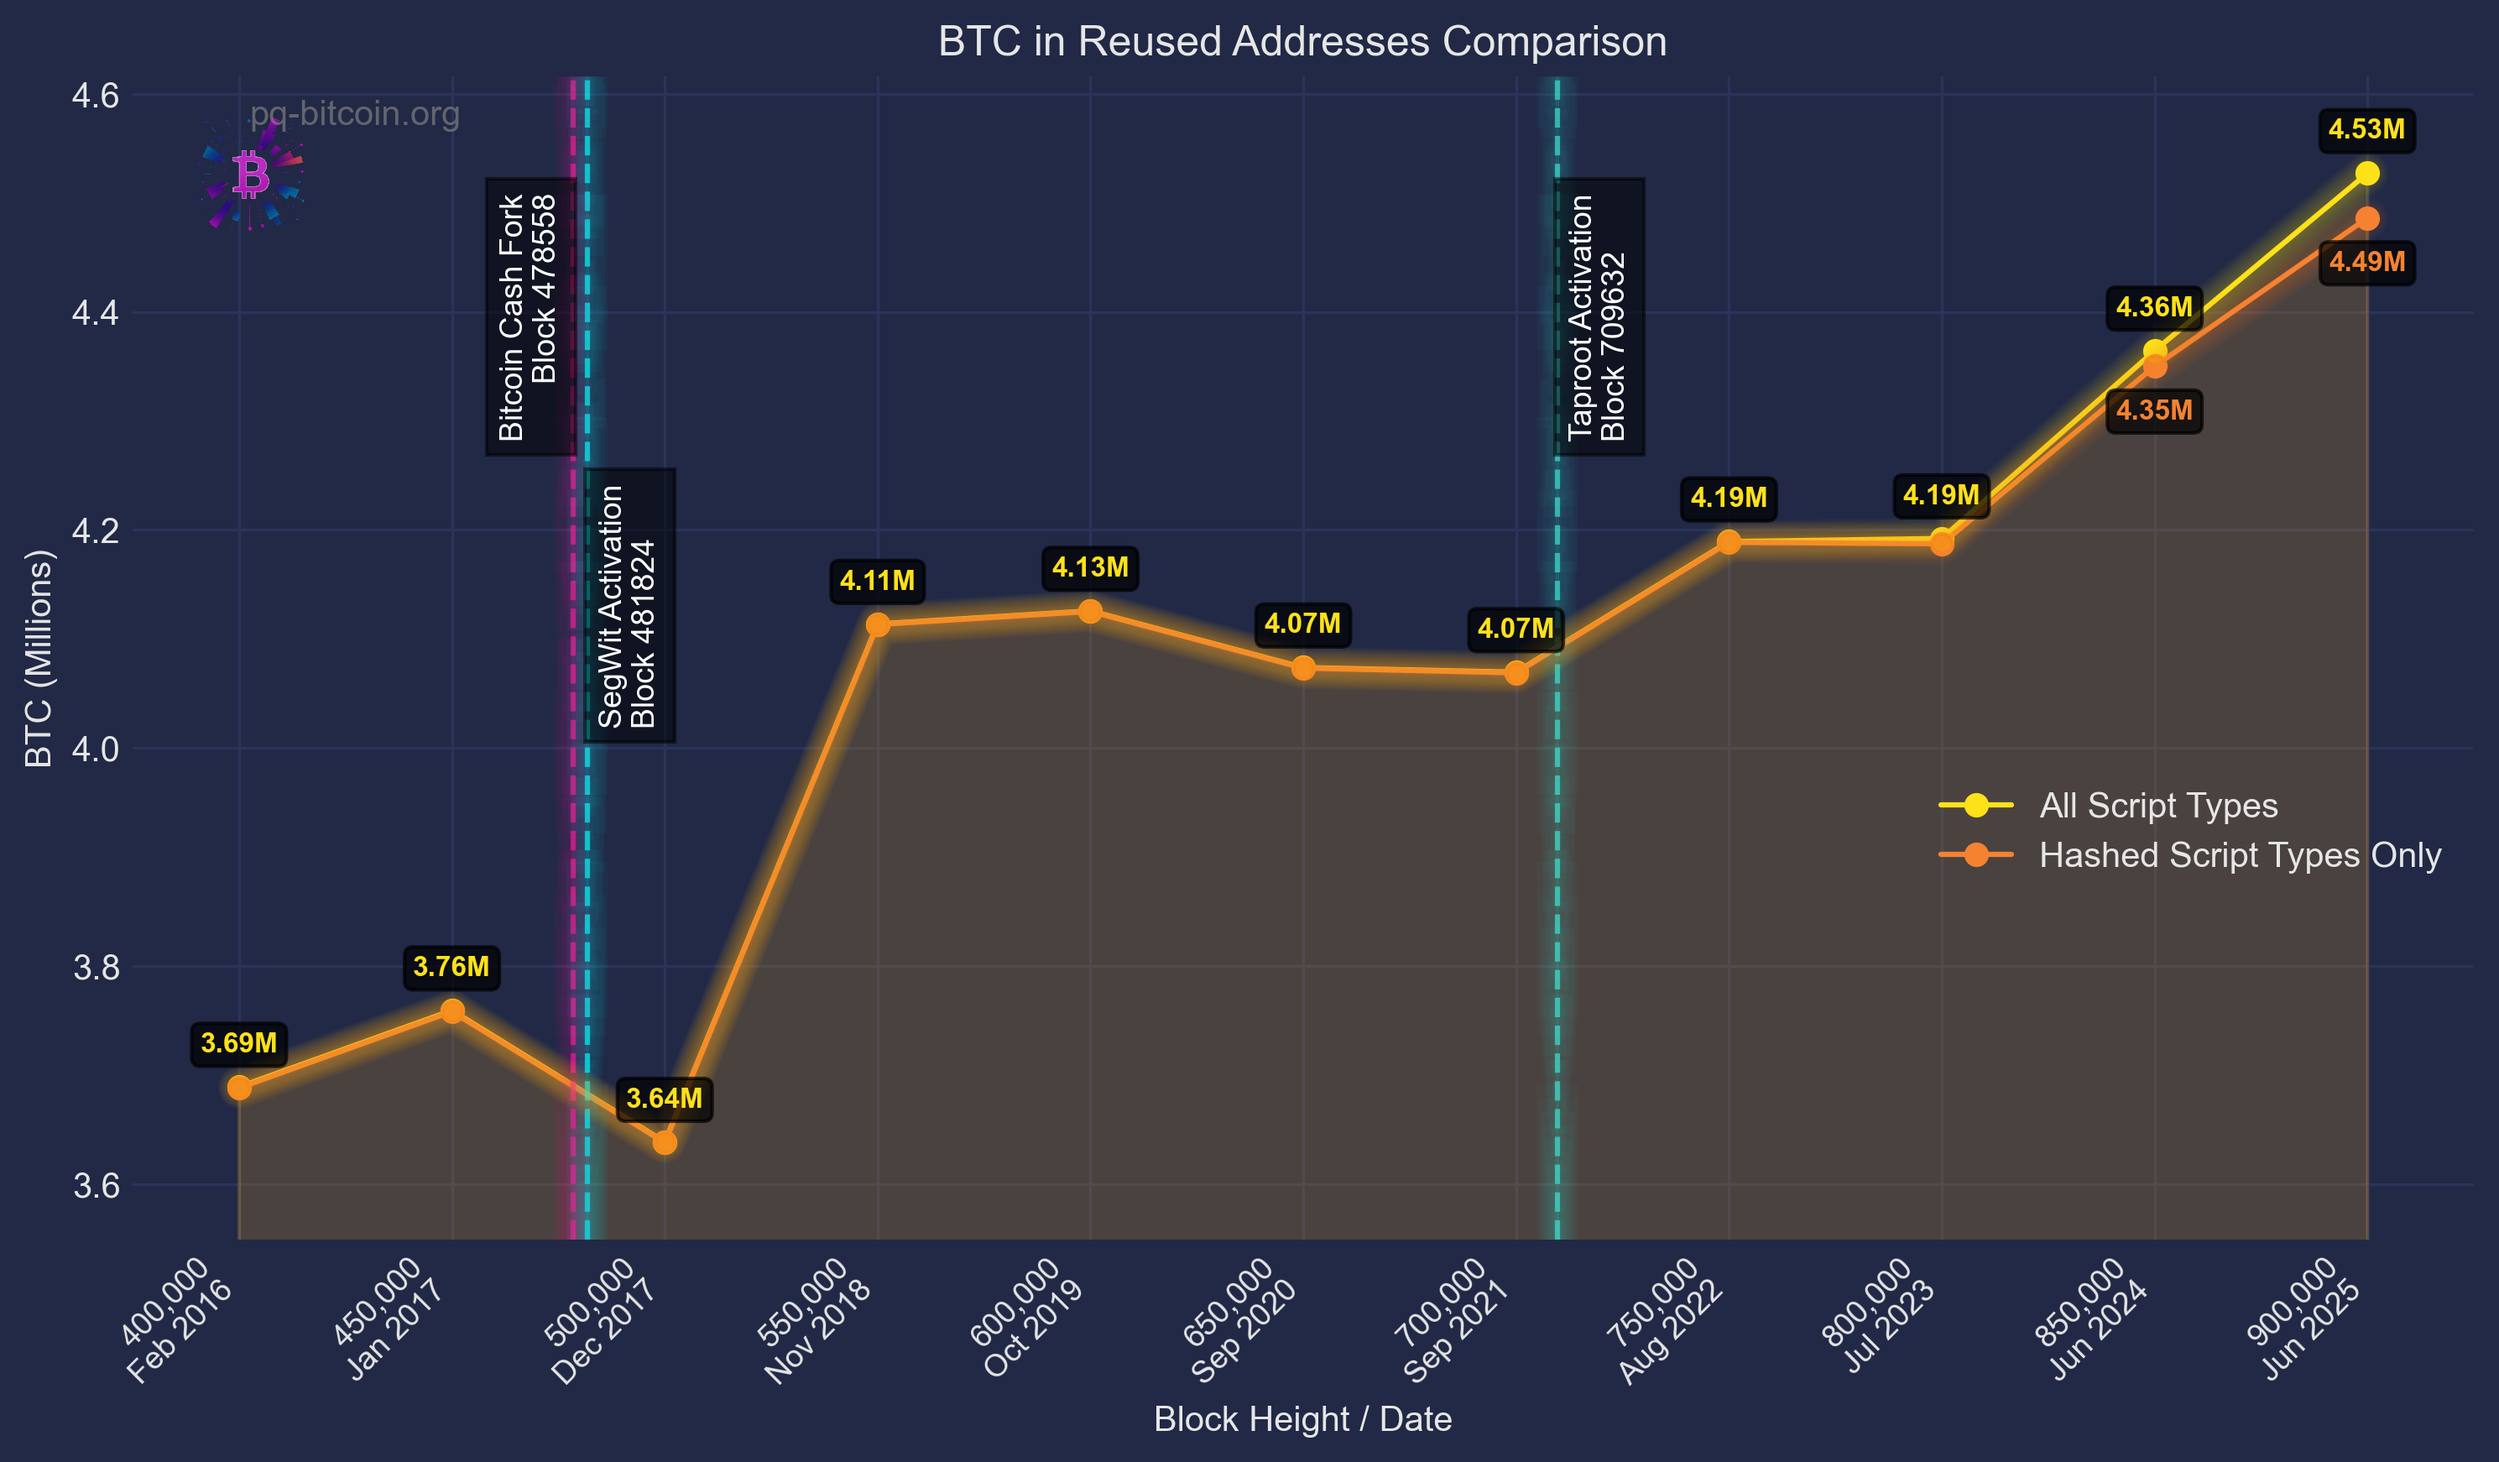
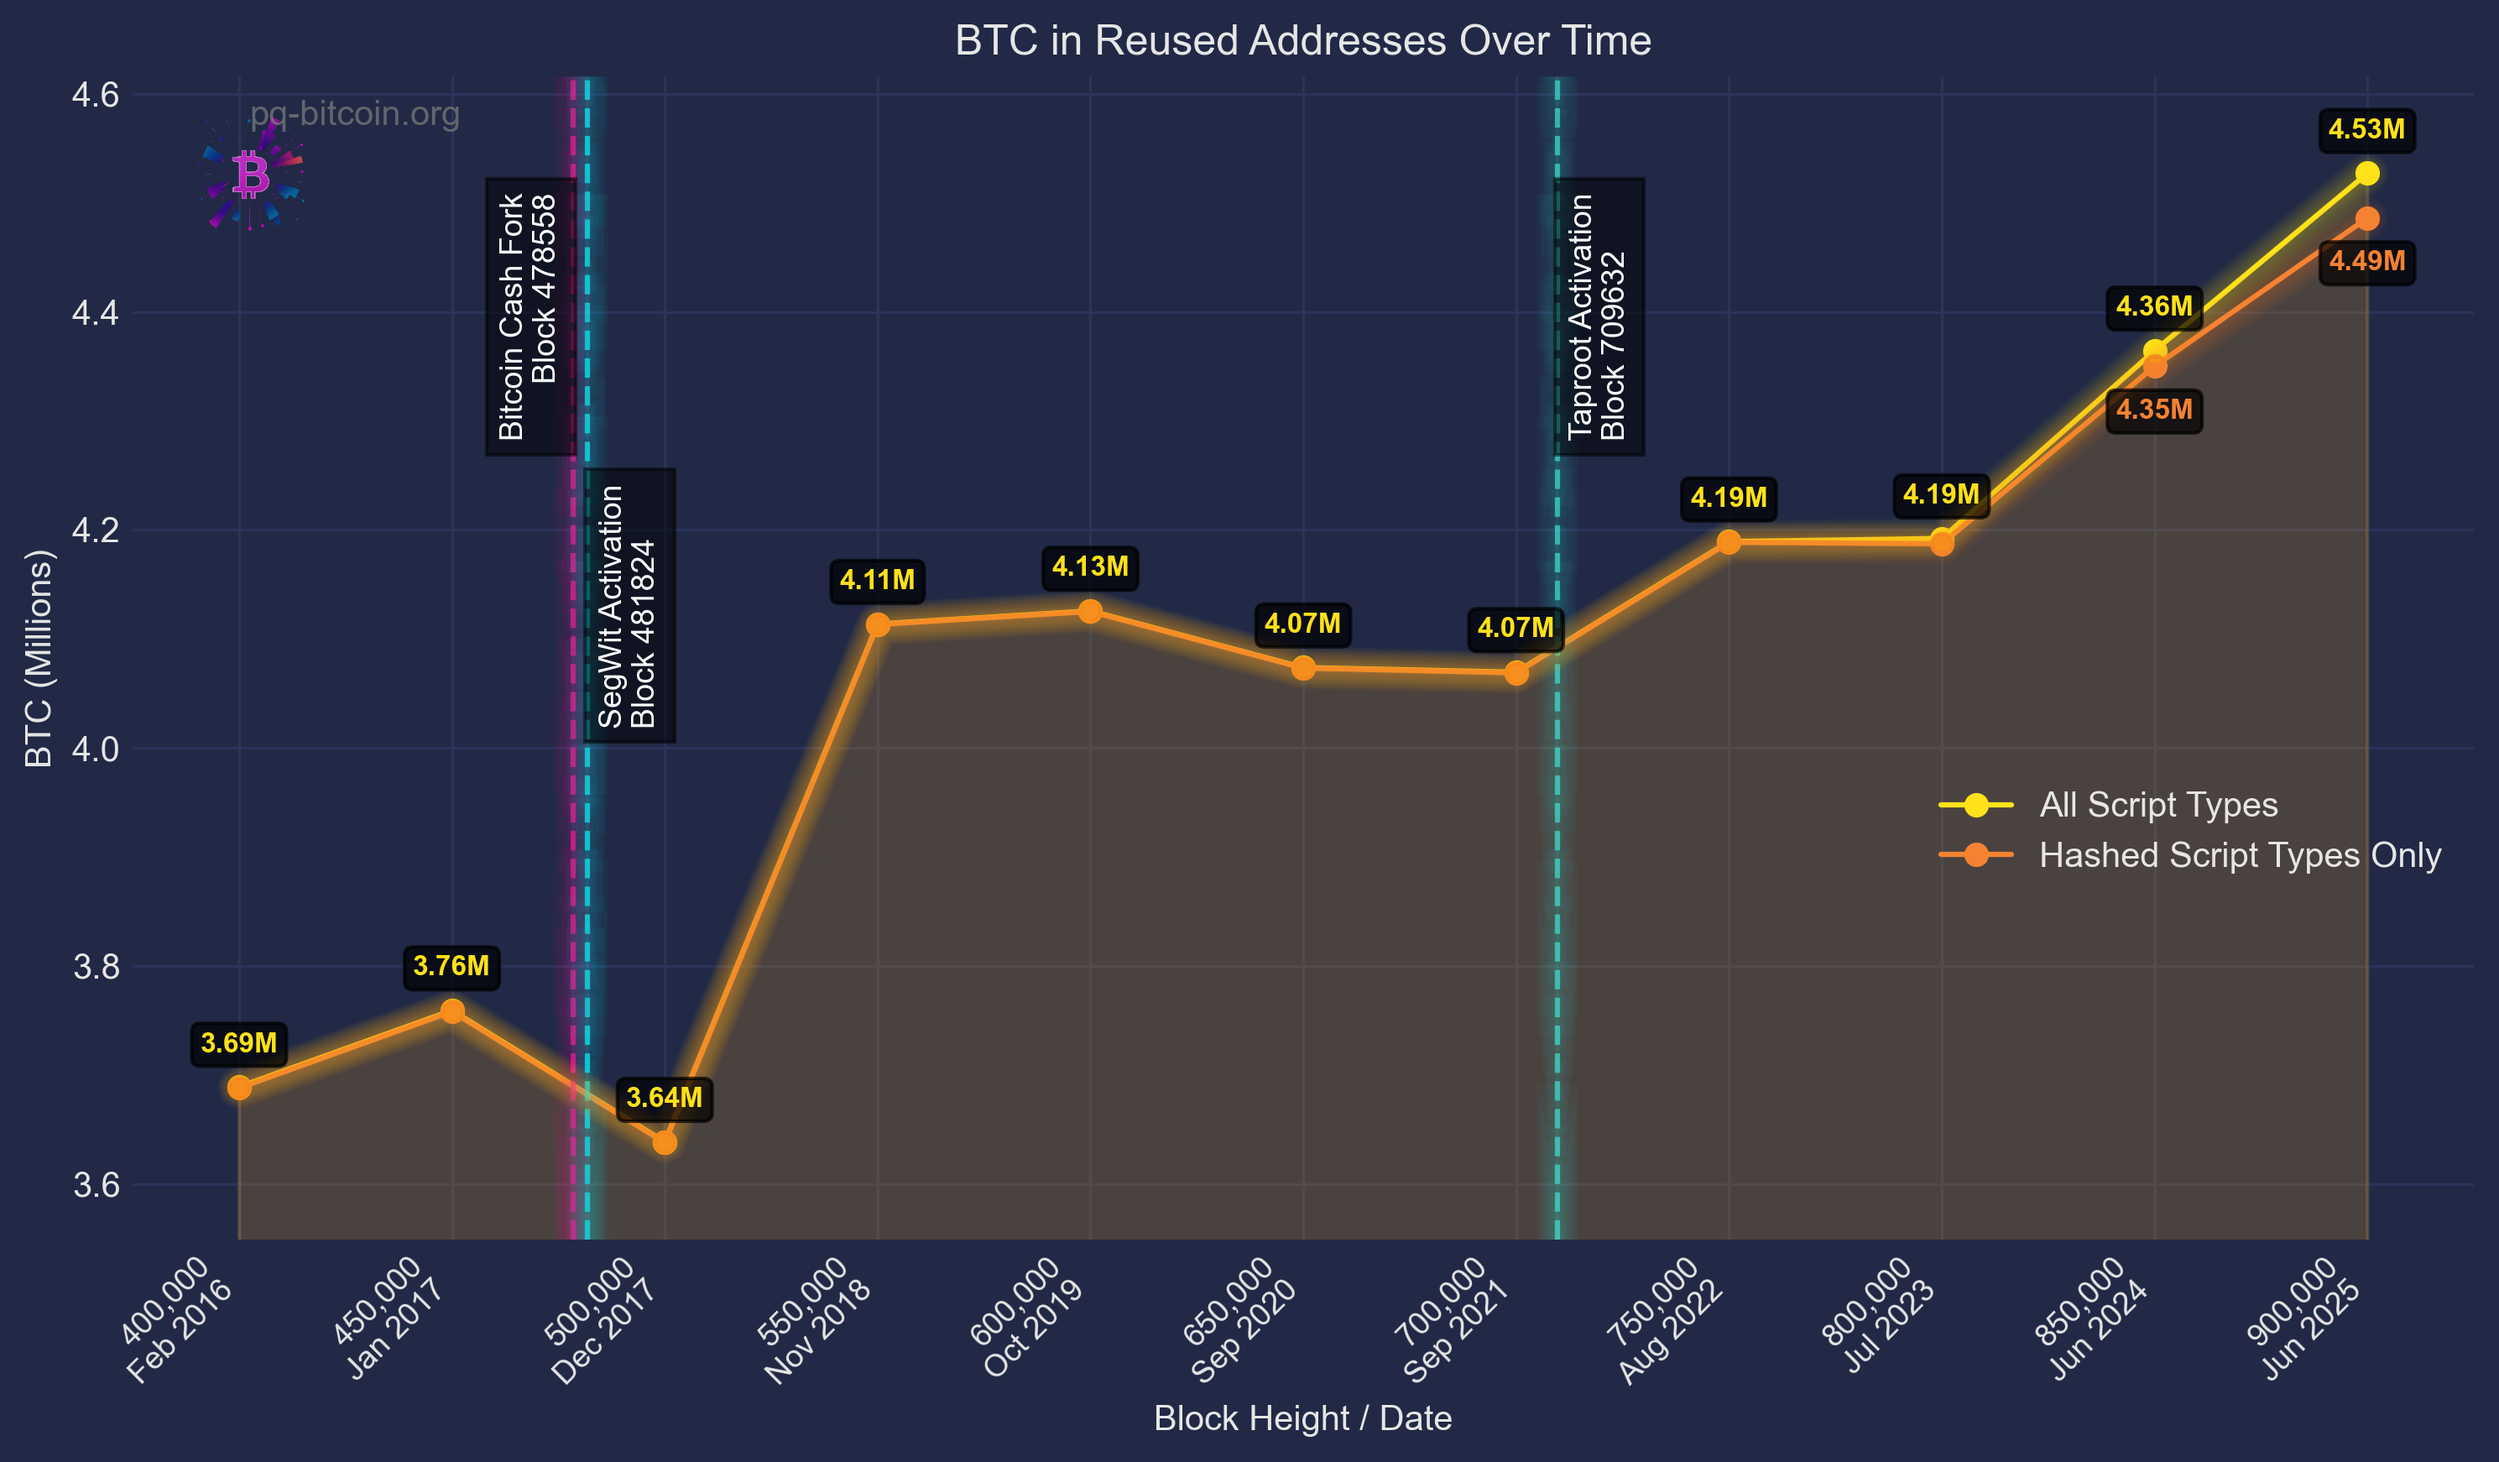
Minor image updates

diff --git a/_posts/1-bitcoin-qva.md b/_posts/1-bitcoin-qva.md
@@ -242,6 +242,6 @@ Aside from dusting and address poisoning, they've been dormant ever since.
 
 ## Additional UTXO Set Figures
 
-![Figure: Breakdown of the UTXO set by number of UTXOs by script type over time.](/assets/blog/qva1/utxos_by_script_type.png){#fig:utxos-by-script-type}
+![Figure: Breakdown of the UTXO set by number of UTXOs by script type over time.](/assets/blog/qva1/utxos_by_script_type_stacked.png){#fig:utxos-by-script-type}
 
-![Figure: Breakdown of the UTXO set by value encumbered by script type over time.](/assets/blog/qva1/btc_by_script_type.png){#fig:btc-by-script-type}
+![Figure: Breakdown of the UTXO set by value encumbered by script type over time.](/assets/blog/qva1/btc_by_script_type_stacked.png){#fig:btc-by-script-type}
